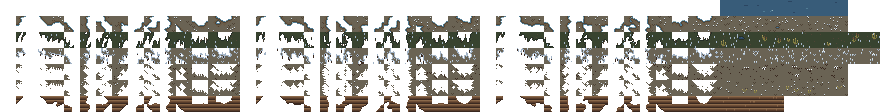
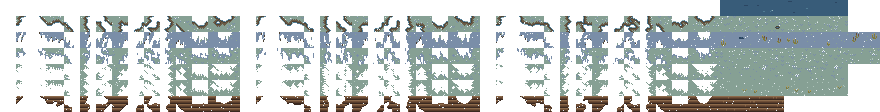
Calmer frost look, thin-snow dusting fringe, clustered snow thresholds
Frost turns the grass a pale blue-green with white rims and a few sparkle pixels.
A dusting look (sparse flecks over the ground) covers tiles whose snow threshold lies
within a band above the cover, so patches get a fringe and snowfall starts as a dusting.
The snow threshold mixes in slow noise, evened out by a lookup table, so snow lies in clusters.

diff --git a/tools/art/seasons.py b/tools/art/seasons.py
@@ -5,16 +5,18 @@ Summer is the art as generate.py draws it. The other looks are made from it: col
 overlays (snow caps, blossom). So an art change in generate.py carries over to every look.
 The game picks a look per tile and per object (see game/state/season_blend.gd): spring,
 summer and autumn are the seasons' foliage, "bare" is winter without snow, "frost" a cold
-morning without snow and "snow" the ground under snow.
+morning without snow, "snow" the ground under snow and "dusting" the thin edge of the snow:
+sparse flecks over whatever lies beneath.
 
 generate.py draws the ground shadow of objects and houses in the logical colour "shadow",
 which every season maps to a palette colour here. Pictures are grids of palette colour names,
 as in generate.py.
 """
 
+import math
 import random
 
-LOOKS = ("spring", "summer", "autumn", "bare", "frost", "snow")
+LOOKS = ("spring", "summer", "autumn", "bare", "frost", "snow", "dusting")
 
 # Palette colours the seasons add to generate.PALETTE.
 COLOURS = {
@@ -44,6 +46,9 @@ COLOURS = {
     "snow":           "cddae3",
     "snow_shadow":    "a3b4c6",
     "snow_deep":      "7a8ea8",
+    # A calm pale blue-green for rimed grass.
+    "frost":          "86a094",
+    "frost_light":    "aec4ba",
 }
 
 _SPRING_GREENS = {
@@ -113,20 +118,29 @@ _BARE_GROUND = {
     "gold": "straw",
     "petal": "sand",
 }
-# A frost: the same ground with white rime on the blades and tips.
+# A frost: the grass keeps its shapes but turns a cold pale blue-green, with white rims on the
+# tips (see also `sparkle`).
 _FROST_GROUND = {
-    **_BARE_GROUND,
     "green_bright": "snow_light",
-    "green_light": "snow",
-    "dry_light": "snow",
-    "meadow_light": "snow",
-    "green_dark": "snow_shadow",
+    "green_light": "frost_light",
+    "green": "frost",
+    "lush": "frost",
+    "green_dark": "snow_deep",
+    "green_deep": "snow_deep",
+    "olive": "frost",
+    "dry": "frost",
+    "dry_light": "frost_light",
+    "meadow": "frost",
+    "meadow_light": "frost_light",
+    "meadow_dark": "snow_deep",
+    "bog": "snow_deep",
+    "bog_dark": "snow_deep",
     "cream": "snow_light",
-    "gold": "snow",
+    "gold": "frost_light",
     "petal": "snow_shadow",
 }
-# Rimed stalks.
-_FROST_STALKS = {"green_bright": "snow_light", "green_light": "snow", "green_dark": "reed", "green_deep": "reed"}
+# Plants stay green-shaped under a frost, with white rims.
+_FROST_STALKS = {"green_bright": "snow_light", "green_light": "frost_light", "green_dark": "frost", "green_deep": "snow_deep"}
 GROUND_REMAPS = {
     "spring": _SPRING_GREENS,
     "summer": {},
@@ -134,13 +148,15 @@ GROUND_REMAPS = {
     "bare": _BARE_GROUND,
     "frost": _FROST_GROUND,
     "snow": _WINTER_GROUND,
+    # Only its decorations use this; see terrain_rows.
+    "dusting": _FROST_GROUND,
 }
 # What decoration tufts and plants turn into: dry stalks from the bare look on.
-STANDING = {"bare": WINTER_STALKS, "frost": _FROST_STALKS, "snow": WINTER_STALKS}
+STANDING = {"bare": WINTER_STALKS, "frost": _FROST_STALKS, "snow": WINTER_STALKS, "dusting": _FROST_STALKS}
 
 _SHADOW_REMAPS = {
     "spring": "green_deep", "summer": "green_deep", "autumn": "green_deep",
-    "bare": "mud_dark", "frost": "mud_dark", "snow": "snow_shadow",
+    "bare": "mud_dark", "frost": "mud_dark", "snow": "snow_shadow", "dusting": "mud_dark",
 }
 
 # Leaf ramps for autumn trees and bushes, replacing the greens of summer.
@@ -203,6 +219,55 @@ def ground_rows(look, rows, extra_remap=None):
     return [rows[0]] + [[remap(tile, mapping) for tile in row] for row in rows[1:]]
 
 
+def sparkle(tile, rng, count):
+    """A few single white pixels of rime on a terrain tile, on pixels that are drawn."""
+    spots = [(x, y) for y, row in enumerate(tile) for x, name in enumerate(row) if name]
+    for x, y in rng.sample(spots, min(count, len(spots))):
+        tile[y][x] = "snow_light"
+
+
+def dust(tile, rng):
+    """Thins a snow tile to a dusting: flecks of snow and, in patches, a thin dithered sheet,
+    with the rest left clear so the ground and its grass tips show through."""
+    phase = rng.uniform(0, 6.3)
+    keep = [[False] * len(row) for row in tile]
+    for y, row in enumerate(tile):
+        for x, name in enumerate(row):
+            if name is None:
+                continue
+            sheet = math.sin(x * 0.7 + phase) * math.sin(y * 0.6 - phase) > 0.45 and (x + y) % 2 == 0
+            fleck_chance = 0.4 if (x and keep[y][x - 1]) or (y and keep[y - 1][x]) else 0.07
+            keep[y][x] = sheet or rng.random() < fleck_chance
+    # A tile that was drawn keeps at least a flake, so every look has the same tiles (the game
+    # makes a tile for every atlas cell that is not clear).
+    if not any(map(any, keep)):
+        spots = [(x, y) for y, row in enumerate(tile) for x, name in enumerate(row) if name]
+        if spots:
+            x, y = rng.choice(spots)
+            keep[y][x] = True
+    return [
+        [("snow_light" if (x + y) % 3 else "snow") if keep[y][x] else None for x in range(len(row))]
+        for y, row in enumerate(tile)
+    ]
+
+
+def terrain_rows(look, rows):
+    """The terrain rows in a look. A frost gets a sprinkle of rime, a dusting is the snow thinned
+    out; the rest is `ground_rows`."""
+    if look == "dusting":
+        snowy = ground_rows("snow", rows)
+        return [snowy[0]] + [
+            [dust(tile, random.Random(f"dust-{r}-{c}")) for c, tile in enumerate(row)]
+            for r, row in enumerate(snowy[1:])
+        ]
+    result = ground_rows(look, rows)
+    if look == "frost":
+        for r, row in enumerate(result[1:]):
+            for c, tile in enumerate(row):
+                sparkle(tile, random.Random(f"rime-{r}-{c}"), 3)
+    return result
+
+
 def snow_caps(canvas, rng, surfaces, edges, depth, centre, bottom=None):
     """Lays snow on every top of a picture: where a `surfaces` or `edges` pixel has no
     surface above it (so also on the ledge under an overhang), a column of snow `depth` px
@@ -256,39 +321,52 @@ def _season_object(look, kind, variant, canvas, redraw):
             canvas = remap(canvas, _AUTUMN_OAK[variant])
         elif kind in ("berry_bush", "shrub", "sapling", "fern"):
             canvas = remap(canvas, _AUTUMN_BUSH[variant % 3])
-    elif look in ("bare", "frost", "snow"):
+    elif look in ("bare", "frost", "snow", "dusting"):
         canvas = _winter_object(look, kind, variant, canvas, redraw, rng, centre)
     return remap(canvas, {"shadow": _SHADOW_REMAPS[look]})
 
 
 def _winter_object(look, kind, variant, canvas, redraw, rng, centre):
-    """An object without leaves: bare, rimed with frost or under snow."""
+    """An object without leaves: bare, rimed with frost, under snow or under a dusting (frost
+    with a thin snow cap)."""
     if kind in redraw:
         return redraw[kind](variant)
+    is_frosty = look in ("frost", "dusting")
+    has_snow = look in ("snow", "dusting")
+
+    def cap(spec):
+        surfaces, edges, depth = spec
+        return surfaces, edges, depth if look == "snow" else 1
+
     if kind in ("spruce", "pine"):
         if look == "snow":
             canvas = copy(canvas)
-            snow_caps(canvas, rng, *(_SNOW_CONIFER if kind == "spruce" else _SNOW_PINE), centre)
+            snow_caps(canvas, rng, *cap(_SNOW_CONIFER if kind == "spruce" else _SNOW_PINE), centre)
+            return canvas
+        if look == "dusting":
+            canvas = remap(canvas, _FROST_CONIFER)
+            snow_caps(canvas, rng, *cap(_SNOW_CONIFER if kind == "spruce" else _SNOW_PINE), centre)
             return canvas
         return remap(canvas, _FROST_CONIFER) if look == "frost" else canvas
     if kind == "berry_bush":
-        return remap(canvas, {"bare": _BARE_BUSH, "frost": {**_BARE_BUSH, **_FROST_BUSH}, "snow": _SNOW_MOUND}[look])
+        return remap(canvas, {"bare": _BARE_BUSH, "frost": {**_BARE_BUSH, **_FROST_BUSH}, "dusting": {**_BARE_BUSH, **_FROST_BUSH}, "snow": _SNOW_MOUND}[look])
     if kind in ("shrub", "sapling"):
-        canvas = remap(canvas, {**_BARE_BUSH, **(_FROST_BUSH if look == "frost" else {})})
-        if look == "snow":
-            snow_caps(canvas, rng, *_SNOW_BUSH, centre)
+        canvas = remap(canvas, {**_BARE_BUSH, **(_FROST_BUSH if is_frosty else {})})
+        if has_snow:
+            snow_caps(canvas, rng, *cap(_SNOW_BUSH), centre)
         return canvas
     if kind == "fern":
-        canvas = remap(canvas, {**_DRY_FERN, **(_FROST_FERN if look == "frost" else {})})
-        if look == "snow":
+        canvas = remap(canvas, {**_DRY_FERN, **(_FROST_FERN if is_frosty else {})})
+        if has_snow:
             snow_caps(canvas, rng, {"straw", "reed", "olive"}, set(), 1, centre)
         return canvas
     if kind in ("stone", "boulder", "stump"):
-        if look == "snow":
+        if has_snow:
             canvas = copy(canvas)
-            snow_caps(canvas, rng, *{"stone": _SNOW_STONE, "boulder": _SNOW_BOULDER, "stump": _SNOW_STUMP}[kind], centre)
+            spec = {"stone": _SNOW_STONE, "boulder": _SNOW_BOULDER, "stump": _SNOW_STUMP}[kind]
+            snow_caps(canvas, rng, *cap(spec), centre)
             return canvas
-        return remap(canvas, _FROST_STONE) if look == "frost" else canvas
+        return remap(canvas, _FROST_STONE) if is_frosty else canvas
     return canvas
 
 

diff --git a/tools/art/generate.py b/tools/art/generate.py
@@ -1969,7 +1969,7 @@ def main():
     # Summer keeps the plain names; the other looks add theirs, e.g. terrain_snow.png.
     for look in seasons.LOOKS:
         suffix = "" if look == "summer" else f"_{look}"
-        to_image(seasons.ground_rows(look, terrain_rows)).save(ASSETS / f"terrain{suffix}.png")
+        to_image(seasons.terrain_rows(look, terrain_rows)).save(ASSETS / f"terrain{suffix}.png")
         to_image(seasons.ground_rows(look, decoration_rows, seasons.STANDING.get(look))).save(ASSETS / f"decorations{suffix}.png")
         to_image(
             seasons.object_rows(look, objects, redraws),

diff --git a/TASKS.md b/TASKS.md
@@ -729,7 +729,9 @@ from the weather".
   seams); decorations, objects and houses switch atlas source per look. `data/seasons.cfg`
   holds the blend windows and the snow and frost numbers; `SnowCover`, `SeasonBlend` are the
   plain logic. Console `snow <0..1>|auto`, flag `--snow=<n>`, F3 shows cover and frost. The
-  palette is at 62 (autumn/autumn_dark merged into reed/olive, two bare-ground colours added).
+  palette is at 64 (autumn/autumn_dark merged into reed/olive; bare-ground and frost colours added).
+  A seventh look, "dusting", is the thin fringe of snow (tiles whose threshold is just above the
+  cover); the snow threshold is slightly clustered in space so patches and fringes form.
 
 ## 30. More crops, grown by the weather
 
